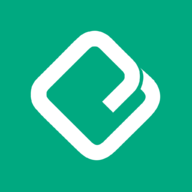
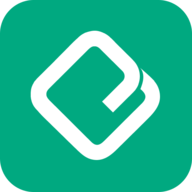
style: 파비콘 변경

diff --git a/index.html b/index.html
@@ -3,7 +3,6 @@
 
 <head>
   <meta charset="UTF-8" />
-  <link rel="icon" href="/favicon.ico" />
   <meta name="viewport" content="width=device-width, initial-scale=1.0" />
   <title>스냅링크 | 나에게 맞는 사진작가를 빠르게 연결하다</title>
 
